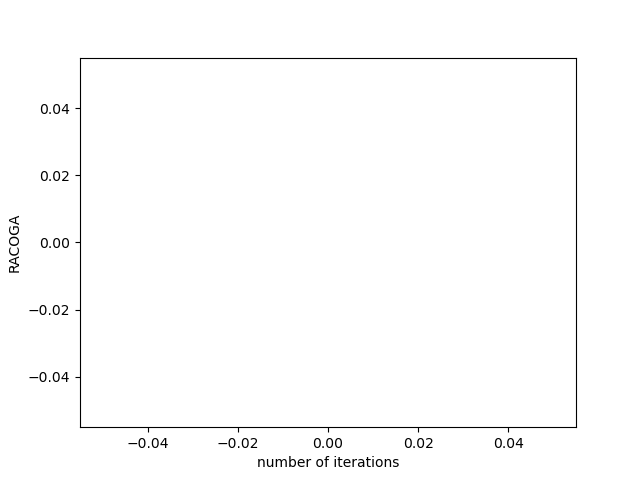
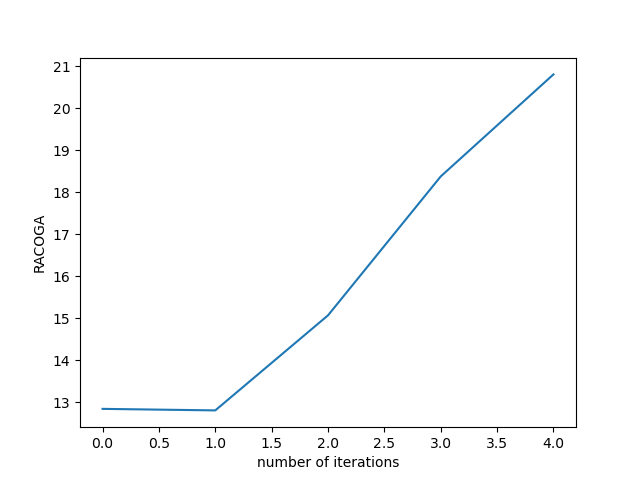
modification of racoga_computation to work with deterministic algorithms

diff --git a/Neural_network/racoga_computation.py b/Neural_network/racoga_computation.py
@@ -34,7 +34,7 @@ if network_type == "CNN":# Light CNN architecture
     net = create_cnn().to(device)
 
 criterion = nn.CrossEntropyLoss()
-optimizer = torch.optim.SGD(net.parameters(), lr = 0.01, momentum=0.9)
+optimizer = torch.optim.SGD(net.parameters(), lr = 0.01, momentum=0.9) 
 
 #Dataset load
 to_tensor =  t.ToTensor()
@@ -62,39 +62,75 @@ racoga_list = []
 scalar_prod_list = []
 iteration_list = []
 
-for k in tqdm(range(len(weights_trajectory)//step)):
-    iteration_list.append(step*k)
-    x = weights_trajectory[step*k]
-    for j, param in enumerate(net.parameters()):
-        param.data = x[j].to(device)
-    sum_gradient = torch.tensor([]).to(device)
-    sum_gradient_norm = 0
+if alg == "SGD" or alg == "SNAG":
+    for k in tqdm(range(len(weights_trajectory)//step)):
+        iteration_list.append(step*k)
+        x = weights_trajectory[step*k]
+        for j, param in enumerate(net.parameters()):
+            param.data = x[j].to(device)
+        sum_gradient = torch.tensor([]).to(device)
+        sum_gradient_norm = 0
 
-    for i, (batch, targets) in enumerate(post_process_loader):
-        batch = batch.to(device)
-        if network_type == "CNN":
-            batch_size = batch.size()[0]
-            batch = batch.view((batch_size, 3, 32, 32))
-        output = net(batch)
-        targets = targets.to(device)
-        loss = criterion(output, targets)
+        for i, (batch, targets) in enumerate(post_process_loader):
+            batch = batch.to(device)
+            if network_type == "CNN":
+                batch_size = batch.size()[0]
+                batch = batch.view((batch_size, 3, 32, 32))
+            output = net(batch)
+            targets = targets.to(device)
+            loss = criterion(output, targets)
 
-        optimizer.zero_grad()
-        loss.backward()
-        #save gradients
-        gradient_i = torch.tensor([]).to(device)
-        for param in net.parameters():
-            gradient_i = torch.cat((gradient_i,param.grad.flatten()))
-        if sum_gradient.size() != torch.Size([0]):
-            sum_gradient += gradient_i
-            sum_gradient_norm += torch.sum(gradient_i**2)
-        else:
-            sum_gradient = gradient_i
+            optimizer.zero_grad()
+            loss.backward()
+            #save gradients
+            gradient_i = torch.tensor([]).to(device)
+            for param in net.parameters():
+                gradient_i = torch.cat((gradient_i,param.grad.flatten()))
+            if sum_gradient.size() != torch.Size([0]):
+                sum_gradient += gradient_i
+                sum_gradient_norm += torch.sum(gradient_i**2)
+            else:
+                sum_gradient = gradient_i
 
-    scalar_prod = (1/2) * (torch.sum(sum_gradient**2) - sum_gradient_norm)
-    racoga = scalar_prod/sum_gradient_norm
-    racoga_list.append(racoga.detach().cpu().numpy())
-    scalar_prod_list.append(scalar_prod.detach().cpu().numpy())
+        scalar_prod = (1/2) * (torch.sum(sum_gradient**2) - sum_gradient_norm)
+        racoga = scalar_prod/sum_gradient_norm
+        racoga_list.append(racoga.detach().cpu().numpy())
+        scalar_prod_list.append(scalar_prod.detach().cpu().numpy())
+
+else:
+    for k in tqdm(range(len(weights_trajectory))):
+        iteration_list.append(k)
+        x = weights_trajectory[k]
+        for j, param in enumerate(net.parameters()):
+            param.data = x[j].to(device)
+        sum_gradient = torch.tensor([]).to(device)
+        sum_gradient_norm = 0
+
+        for i, (batch, targets) in enumerate(post_process_loader):
+            batch = batch.to(device)
+            if network_type == "CNN":
+                batch_size = batch.size()[0]
+                batch = batch.view((batch_size, 3, 32, 32))
+            output = net(batch)
+            targets = targets.to(device)
+            loss = criterion(output, targets)
+
+            optimizer.zero_grad()
+            loss.backward()
+            #save gradients
+            gradient_i = torch.tensor([]).to(device)
+            for param in net.parameters():
+                gradient_i = torch.cat((gradient_i,param.grad.flatten()))
+            if sum_gradient.size() != torch.Size([0]):
+                sum_gradient += gradient_i
+                sum_gradient_norm += torch.sum(gradient_i**2)
+            else:
+                sum_gradient = gradient_i
+
+        scalar_prod = (1/2) * (torch.sum(sum_gradient**2) - sum_gradient_norm)
+        racoga = scalar_prod/sum_gradient_norm
+        racoga_list.append(racoga.detach().cpu().numpy())
+        scalar_prod_list.append(scalar_prod.detach().cpu().numpy())
 
 #Save the RACOGA evolution
 dict = {
